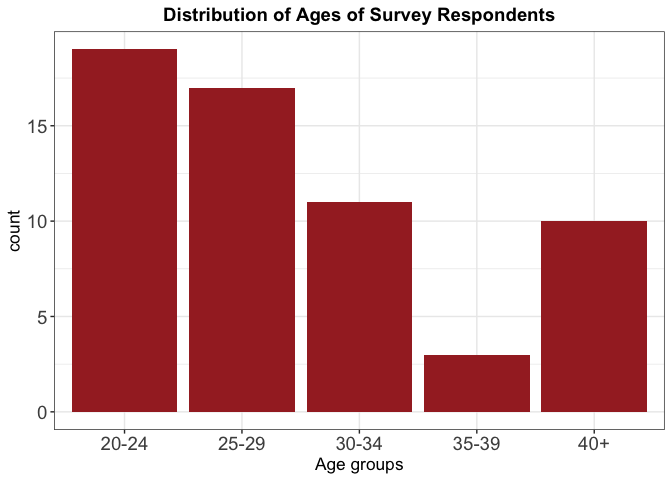
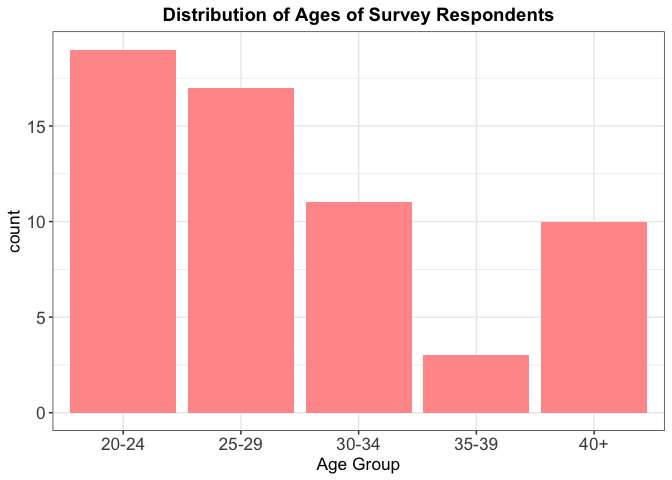
Update EDA adjusting analysis and charts formatting

diff --git a/Milestone2/Milestone2_EDA.md b/Milestone2/Milestone2_EDA.md
@@ -1,26 +1,23 @@
-Milestone2\_EDA
+Milestone 2
 ================
 Wilson D., Marcelle C., Kera Y., Heather VT.
 4/5/2019
 
-This dataset is aimed to answer the question “Does a person’s frequency
-of recycling influence her/his opinion and attitudes towards the
-importance of sustainability?”. The description of columns as follows:
+This survey aimed to answer the question *"Does a person’s frequency of recycling influence her/his opinion and attitudes towards the importance of sustainability?"*. The dataset columns description are as follows:
 
-  - `Q1_1`: How important is being environmentally sustainable to you on
-    a scale from 1-10?
-  - `Q2`: How often do you generally recycle?
-  - `Q3`: What is your age group?
-  - `Q4`: Did you grow up in an environmentally-conscious family?
-  - `Q5`: Will you watch the video?
-  - `Q6_1`: After watching this video about recycling, how important is
-    sustainability to you on a self-ranked scale from 1-10 scale?
+-   `Q1_1`: How important is being environmentally sustainable to you on a scale from 1-10?
+-   `Q2`: How often do you generally recycle?
+-   `Q3`: What is your age group?
+-   `Q4`: Did you grow up in an environmentally-conscious family?
+-   `Q5`: Will you watch the video?
+-   `Q6_1`: After watching this video about recycling, how important is sustainability to you on a self-ranked scale from 1-10 scale?
 
-# Load Data
+### Load Data
 
 ``` r
-#tidy data and give correct data type
-tidy_data <- read_csv("../../Sustainable_Survey/data/Sustainable Survey_April 4, 2019_18.11.csv", col_types = cols(.default = col_character()))[3:62,18:23]
+# tidy data and assign correct data types
+tidy_data <- read_csv("../data/Sustainable Survey_April 4, 2019_18.11.csv", col_types = cols(.default = col_character()))[3:62,18:23]
+
 tidy_data <- tidy_data %>% 
   mutate(Q1_1 = as.numeric(Q1_1),
          Q2 = as.factor(Q2),
@@ -58,36 +55,22 @@ summary(tidy_data)
     ##  NA's   :9
 
 > Analyzing the summary table, we noticed:
-> 
-> **Q1\_1: How important is being environmentally sustainable to you on
-> a scale from 1-10?**: on average, people rated sustainability as a 7.7
-> initially.
-> 
-> **Q2: How often do you generally recycle?**: Most of participants have
-> a good recycling habit: 29 answered “Usually” and 27 answered
-> “Always”. Only 4 other participants recycle sometimes or rarely.
-> 
-> **Q3: What is your age group?**: 60% of the participants are from the
-> younger groups, having 20-29 years old. We had a considerable amount
-> of people with 40+, but only 5% of the respondents are 35-39 years
-> old.
-> 
-> **Q4: Did you grow up in an environmentally-conscious family?**: 46.7%
-> of the respondents grow up in an environmentally-conscious family.
-> 
-> **Q5: Will you watch the video?**: Only 63% of the respondents
-> confirmed that they watched the video.
-> 
-> **Q6\_1: After watching this video about recycling, how important is
-> sustainability to you on a self-ranked scale from 1-10 scale?**: The
-> self rank about sustainability importance after watching the video had
-> a slightly higher mean and median than the first one (9 and 8.1 vs. 8
-> and 7.8, respectively). However, some people who didn’t watch the
-> video answered the last question, since we had 15 respondents who said
-> on Q5 that they passed the video, and only 9 participants answered NA
-> to Q6\_1.
+>
+> **Q1\_1: How important is being environmentally sustainable to you on a scale from 1-10?**: the average of the responses before watching the video was 7.8, with median 8.0.
+>
+> **Q2: How often do you generally recycle?**: Most participants have a good recycling habit: 29 (48.3%) answered "Usually" and 27 (45%) answered "Always". Only 4 participants (6.7%) replied that they recycle "Sometimes" or "Rarely".
+>
+> **Q3: What is your age group?**: A total of 36 participants (60%) are from the younger groups, being 20-29 years old. We had a considerable number of people with 40+, but only 3 respondents (5%) are 35-39 years old.
+>
+> **Q4: Did you grow up in an environmentally-conscious family?**: 28 respondents (46.7%) replied that they grew up in an environmentally-conscious family.
+>
+> **Q5: Will you watch the video?**: Only 38 respondents (63%) confirmed that they watched the video.
+>
+> **Q6\_1: After watching this video about recycling, how important is sustainability to you on a self-ranked scale from 1-10 scale?**: The self rank about sustainability importance after watching the video had a slightly higher mean (8.1 vs. 7.8) and median (9 vs. 8) than the answers from the first question. However, some people who didn't watch the video answered the last question, since we had 15 respondents who said on Q5 that they'd skip the video, and only 9 participants answered NA to Q6\_1.
 
-# Explanatory Data Analysis
+### Exploratory Data Analysis
+
+In order to explore our survey results and have a better understanding of how the variables impact the responses, we performed the following analysis:
 
 ``` r
 tidy_data %>% 
@@ -96,100 +79,83 @@ tidy_data %>%
   facet_grid(~Q4) +
   theme_bw() +
   labs(x = "How often do you recycle? ",
-       title = "Frequency vs. environmentally-conscious family") +
-  scale_fill_discrete(name = "environmentally-conscious family?") +
+       title = "Frequency vs. Environmentally-conscious Family") +
+  scale_fill_discrete(name = "Environmentally-conscious Family?") +
   theme(plot.title = element_text(size = 14, face = "bold", hjust = 0.5),
-        axis.text = element_text(size = 9,angle = 45, hjust = 1),
+        axis.text.x = element_text(size = 9, angle = 45, hjust = 1),
         axis.title = element_text(size = 10))
 ```
 
-![](Milestone2_EDA_files/imgs/plot%20family%20vs.%20frequency-1.png)<!-- -->
+![](Milestone2_EDA_files/imgs/plot%20family%20vs.%20frequency-1.png)
 
-> As we can see from the above plot, most of our respondent have a good
-> recycling habit whether or not they live in a
-> environmentally-consicous family. However, if one respondent did not
-> grow up in an environmentally-conscious family then he/she may not
-> recycle at all.
+> As we can see from the above plot, most of our respondent have a good recycling habit whether or not they live in a environmentally-consicous family. However, if one respondent did not grow up in an environmentally-conscious family then he/she may not recycle at all.
 
 ``` r
 ggplot(tidy_data, aes(Q3)) +
-  geom_histogram(stat="count", fill="brown") +
-  labs(x = "Age groups",
+  geom_histogram(stat = "Count", fill = "#ff9999") +
+  labs(x = "Age Group",
        title = "Distribution of Ages of Survey Respondents") +
   theme_bw() +
   theme(plot.title = element_text(size = 14, face = "bold", hjust = 0.5),
-        axis.text = element_text(size = 14),
+        axis.text = element_text(size = 13),
         axis.title = element_text(size = 13))
 ```
 
-![](Milestone2_EDA_files/imgs/age%20distribution-1.png)<!-- -->
+![](Milestone2_EDA_files/imgs/age%20distribution-1.png)
 
 ``` r
 qplot(tidy_data$Q3, tidy_data$Q1_1, geom="boxplot") +
   ylim(0, 10) +
   theme_bw() +
   labs(x = "Age Group",
-       y = "Sustainability Importance") +
+       y = "Rating before watching the video") +
   ggtitle("Sustainability Importance vs. Age Group") +
   theme(plot.title = element_text(size = 14, face = "bold", hjust = 0.5),
-        axis.text = element_text(size = 14),
+        axis.text = element_text(size = 13),
         axis.title = element_text(size = 13))
 ```
 
-![](Milestone2_EDA_files/imgs/plot%20age%20group%20vs.%20sustainability%20importance%20before%20watching%20the%20video-1.png)<!-- -->
+![](Milestone2_EDA_files/imgs/plot%20age%20group%20vs.%20sustainability%20importance%20before%20watching%20the%20video-1.png)
 
-> Analyzing the boxplots above is easy to see that older people (`35-39`
-> and `40+` groups) consider sustainability more important than younger
-> groups, having a higher mean (~9 in a scale from 1-10) and narrower
-> range. Additionaly, the other 3 groups (`20-24`, `25-29` and `30-34`)
-> have one outlier each, where at least one respondent of each of these
-> groups evaluated sustainability with a considerable lower importance
-> in comparison with the other participants from their respective group.
-> However, it’s important to take into account that we have fewer
-> responses from the second oldest age group, which can distort the
-> analysis. Further analysis with confidence intervals is warranted.
+> Analyzing the boxplots above is easy to see that older people (`35-39` and `40+` groups) consider sustainability more important than younger groups, having a higher mean (~9 in a scale from 1-10) and narrower range. Additionaly, the other 3 groups (`20-24`, `25-29` and `30-34`) have one outlier each, where at least one respondent of each of these groups evaluated sustainability with a considerable lower importance in comparison with the other participants from their respective group. However, it's important to take into account that we have fewer responses from the second oldest age group, which can distort the analysis. Further analysis with confidence intervals is warranted.
 
 ``` r
+# self rank before and after watching the video for recycling frequency, for respondents who watched the video
 tidy_data %>% filter(Q5 %in% 'Have watched') %>% 
-  ggplot(aes(x = Q1_1, y = Q6_1, color = Q2)) +
+  ggplot(aes(x = Q1_1, y = Q6_1, color = Q2), alpha = 0.5) +
   geom_point() +
-  geom_jitter() +
   labs(x = "Rating before watching the video",
        y = "Rating after watching the video",
-       colour ="Recycling frequency",
-       title = "Scatter plot of frequency vs ratings") +
+       colour ="Recycling Frequency",
+       title = "Sustainability Ratings Analyzed by Recycling Frequency") +
   theme_bw() +
   theme(plot.title = element_text(size = 14, face = "bold", hjust = 0.5),
-        axis.text = element_text(size = 14),
-        axis.title = element_text(size = 13))
+        axis.text = element_text(size = 13),
+        axis.title = element_text(size = 13)) +
+  geom_abline(slope = 1, intercept = 0, linetype = 3)
 ```
 
-![](Milestone2_EDA_files/imgs/unnamed-chunk-1-1.png)<!-- -->
+![](Milestone2_EDA_files/imgs/plot%20self%20rank%20before%20and%20after%20watching%20the%20video%20for%20recycling%20frequency%20and%20age%20group-1.png)
 
 ``` r
+# self rank before and after watching the video for age group, for respondents who watched the video
 tidy_data %>% filter(Q5 %in% 'Have watched') %>% 
   ggplot(aes(x = Q1_1, y = Q6_1, color = Q3)) +
   geom_point() +
-  geom_jitter() +
   labs(x = "Rating before watching the video",
        y = "Rating after watching the video",
-       colour ="Age group",
-       title = "Scatter plot of age vs ratings") +
+       colour ="Age Group",
+       title = "Sustainability Ratings Analyzed by Age Group") +
   theme_bw() +
   theme(plot.title = element_text(size = 14, face = "bold", hjust = 0.5),
-        axis.text = element_text(size = 14),
-        axis.title = element_text(size = 13))
+        axis.text = element_text(size = 13),
+        axis.title = element_text(size = 13)) +
+  geom_abline(slope = 1, intercept = 0, linetype = 3)
 ```
 
-![](Milestone2_EDA_files/imgs/unnamed-chunk-1-2.png)<!-- -->
+![](Milestone2_EDA_files/imgs/plot%20self%20rank%20before%20and%20after%20watching%20the%20video%20for%20recycling%20frequency%20and%20age%20group-2.png)
 
-> The respondents changed their opinion on how sustainable they think
-> they are in the positive direction. There were only two respondents
-> who scored less after watching the video .Respondents scored more
-> after the watching the video are the ones recycle usually. Respondents
-> score does not appear to be affected by age group, there may be other
-> underlying confounding factors in which we did not capture in our data
-> collection.
+> Looking only at the respondents who reported having watched the video, most of them changed their opinion on how sustainable they think they are in the positive direction, as evidenced by the higher number of points above the diagonal line. There was only one respondents who scored less after watching the video. Respondents who scored more after the watching the video are the ones who usually recycle. Respondents scores do not appear to be affected by age group. There may be other underlying confounding factors in which we did not capture in our data collection.
 
 ``` r
 p1 <- tidy_data %>%
@@ -200,7 +166,7 @@ p1 <- tidy_data %>%
   labs(title = "Rating before watching the video", x = "Ratings") +
   theme_bw() +
   theme(plot.title = element_text(size = 14, face = "bold", hjust = 0.5),
-        axis.text = element_text(size = 14),
+        axis.text = element_text(size = 13),
         axis.title = element_text(size = 11))
 
 p2 <- tidy_data %>%
@@ -218,8 +184,6 @@ p2 <- tidy_data %>%
 grid.arrange(p1, p2, nrow = 1)
 ```
 
-![](Milestone2_EDA_files/imgs/grouped%20bar-1.png)<!-- -->
+![](Milestone2_EDA_files/imgs/grouped%20bar-1.png)
 
-> These histograms show that there was a slight shift in ratings towards
-> more positive ratings after watching the video. Further analysis with
-> confidence intervals will follow.
+> These histograms show that there was a slight shift in ratings towards more positive ratings after watching the video. Further analysis with confidence intervals will follow.
